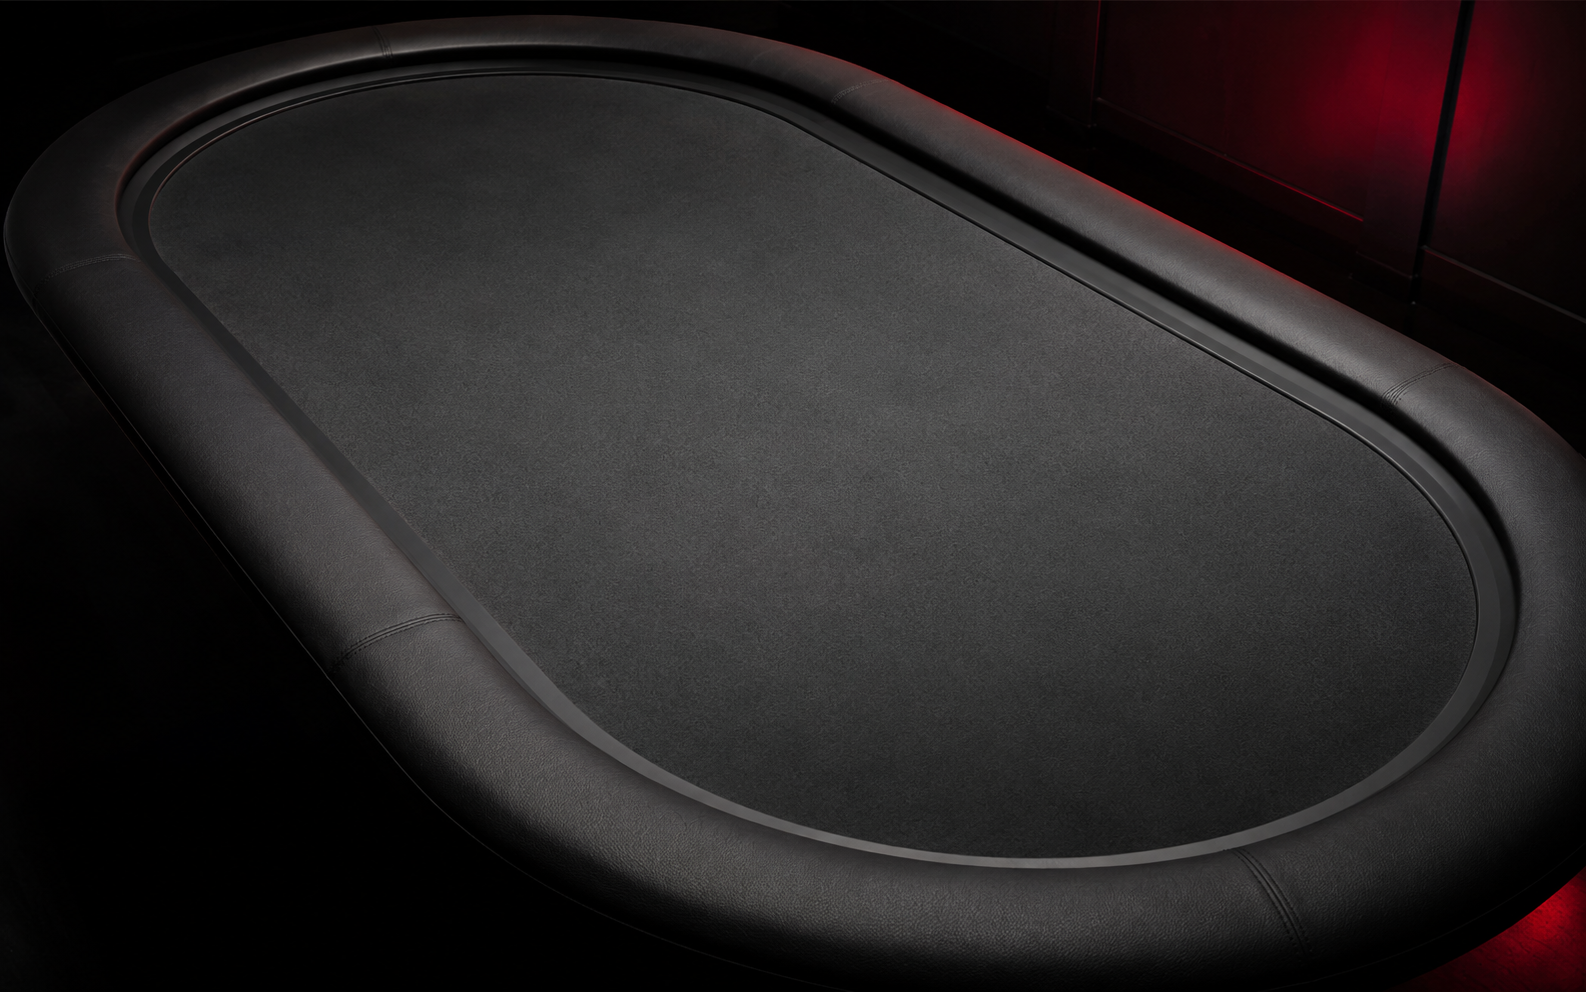
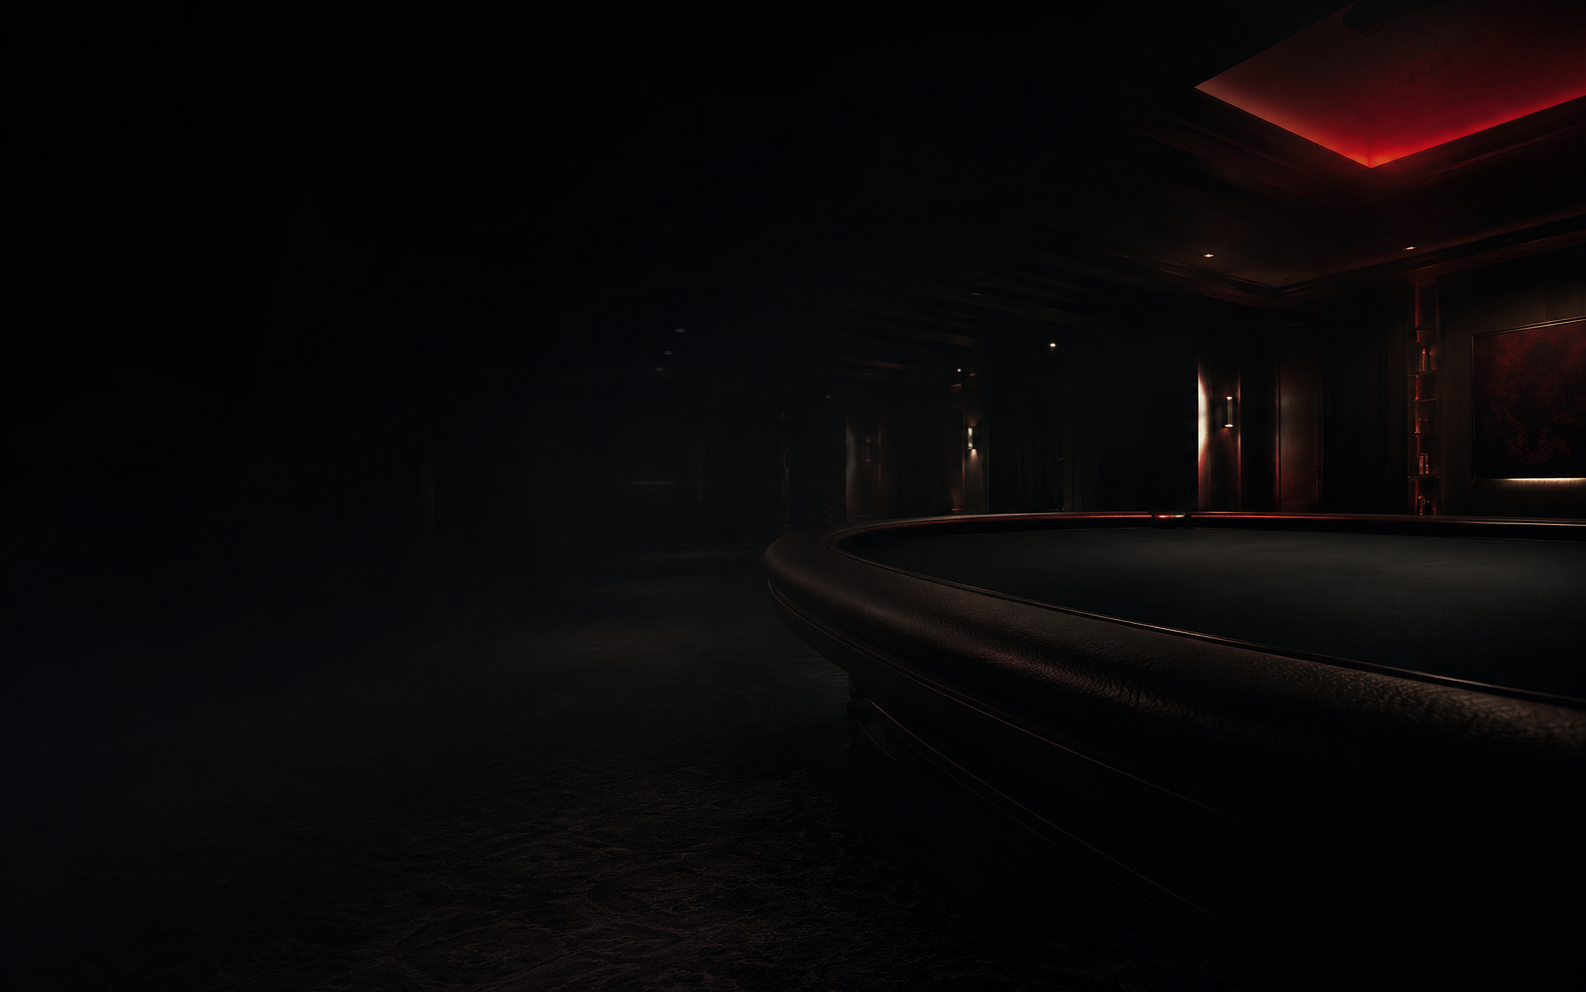
Hero — full-width atmospheric bg, GPT-redesigned per quangholio feedback
Previous iteration: image lived only in the right column behind phones, hard
rectangular edges with a soft mask that didn't actually disguise them, and the
table dominated as a slab.

Quangholio's actual asks resolved:
  1. TILT TABLE FURTHER BACK — GPT regen with explicit instruction to make
     the table recede as a horizon/atmospheric element. Now visible only
     curving in from the right side, fading into deep darkness on the left.
  2. EXTEND ACROSS FULL HERO WIDTH — moved PokerTableArc out of the phones
     column and into the Hero section root with absolute inset-0, spans
     entire section behind both columns.
  3. BLEND BEHIND TEXT — left half of the image is dark atmospheric depth
     (the poker room receding into shadow), with a left-to-right linear
     legibility overlay (rgba(0,0,0,0.85→0) gradient) that keeps headline
     text readable while letting some atmosphere bleed behind it.
  4. NO HARD EDGES — top/bottom linear fades dissolve into the page bg
     instead of clipping. No more visible rectangle outline.

Reference image fed to GPT: temporary public/_hero-snapshot.png (deleted in
this commit). Replacement image: regenerated poker-table-hero.png — same
filename, different photo, atmospheric establishing-shot vibe (Roger Deakins
night-interior style per the prompt) rather than product-photography slab.

🤖 Generated with Claude Code

diff --git a/src/app/page.tsx b/src/app/page.tsx
@@ -78,8 +78,9 @@ function Logo() {
 
 function Hero() {
   return (
-    <section className="w-full max-w-6xl mx-auto px-6 pt-8 pb-20 md:pt-16 md:pb-32 grid md:grid-cols-12 gap-10 items-center">
-      <div className="md:col-span-6 flex flex-col gap-8">
+    <section className="relative w-full max-w-6xl mx-auto px-6 pt-8 pb-20 md:pt-16 md:pb-32 grid md:grid-cols-12 gap-10 items-center">
+      <PokerTableArc />
+      <div className="md:col-span-6 flex flex-col gap-8 relative z-10">
         <div className="inline-flex w-fit items-center gap-2 rounded-full border border-white/10 bg-white/5 px-4 py-2 text-sm font-medium text-white/80">
           <span className="size-2 rounded-full bg-[var(--brand-red)] live-dot" />
           Now partnering with select poker rooms
@@ -104,12 +105,7 @@ function Hero() {
         </div>
       </div>
 
-      <div className="md:col-span-6 relative h-[640px] md:h-[720px]">
-        {/* Charcoal table-arc behind the phones — surface of the game, not the venue.
-            Per council R2 convergence (poll 6070cbec): arc not ellipse, charcoal not red,
-            no rail / no chip shadows / no detailing. Just the curve. The phones (the
-            trading interface) sit on the table (the poker world). */}
-        <PokerTableArc />
+      <div className="md:col-span-6 relative h-[640px] md:h-[720px] z-10">
         <div className="absolute inset-0 grid place-items-center">
           <div
             className="absolute z-10"
@@ -346,27 +342,49 @@ function Footer() {
 }
 
 function PokerTableArc() {
-  // GPT-generated photoreal poker-table image, masked with a soft radial
-  // vignette so the edges fade into the page background instead of clipping
-  // as a hard rectangle. The mask keeps the table center fully visible and
-  // fades to transparent at all four sides.
-  const fadeMask =
-    "radial-gradient(ellipse 75% 70% at 50% 50%, black 35%, transparent 90%)";
+  // Full-hero atmospheric background. GPT redesign per quangholio feedback:
+  // the table extends from the right as a horizon-receding element rather
+  // than dominating as a slab; the atmosphere bleeds across the whole hero
+  // so the headline text on the left sits on top of the same continuous
+  // poker-room mood rather than against pure black. Two layered overlays
+  // keep the text legible:
+  //   - left-to-right linear darkener so the headline reads on dark felt
+  //   - bottom-fade so the section blends into the page below
+  //   - corner-fade vignette to soften the outer edges into the bg
   return (
-    <div
-      className="absolute inset-0 z-0 pointer-events-none overflow-hidden"
-      style={{
-        maskImage: fadeMask,
-        WebkitMaskImage: fadeMask,
-      }}
-    >
+    <div className="absolute inset-0 z-0 pointer-events-none overflow-hidden">
       <Image
         src="/poker-table-hero.png"
         alt=""
         fill
         priority
-        className="object-cover object-center"
-        sizes="(min-width: 768px) 50vw, 100vw"
+        className="object-cover object-right"
+        sizes="100vw"
+      />
+      {/* legibility overlay: dark on the left where the headline sits,
+          fading toward the right where the table is */}
+      <div
+        className="absolute inset-0"
+        style={{
+          background:
+            "linear-gradient(90deg, rgba(0,0,0,0.85) 0%, rgba(0,0,0,0.55) 35%, rgba(0,0,0,0.15) 65%, rgba(0,0,0,0) 100%)",
+        }}
+      />
+      {/* bottom fade — section blends into page bg below the hero */}
+      <div
+        className="absolute inset-x-0 bottom-0 h-1/3"
+        style={{
+          background:
+            "linear-gradient(180deg, rgba(10,10,10,0) 0%, rgba(10,10,10,0.75) 70%, rgba(10,10,10,1) 100%)",
+        }}
+      />
+      {/* top fade — headers area dissolves into bg */}
+      <div
+        className="absolute inset-x-0 top-0 h-1/4"
+        style={{
+          background:
+            "linear-gradient(0deg, rgba(10,10,10,0) 0%, rgba(10,10,10,0.6) 70%, rgba(10,10,10,1) 100%)",
+        }}
       />
     </div>
   );